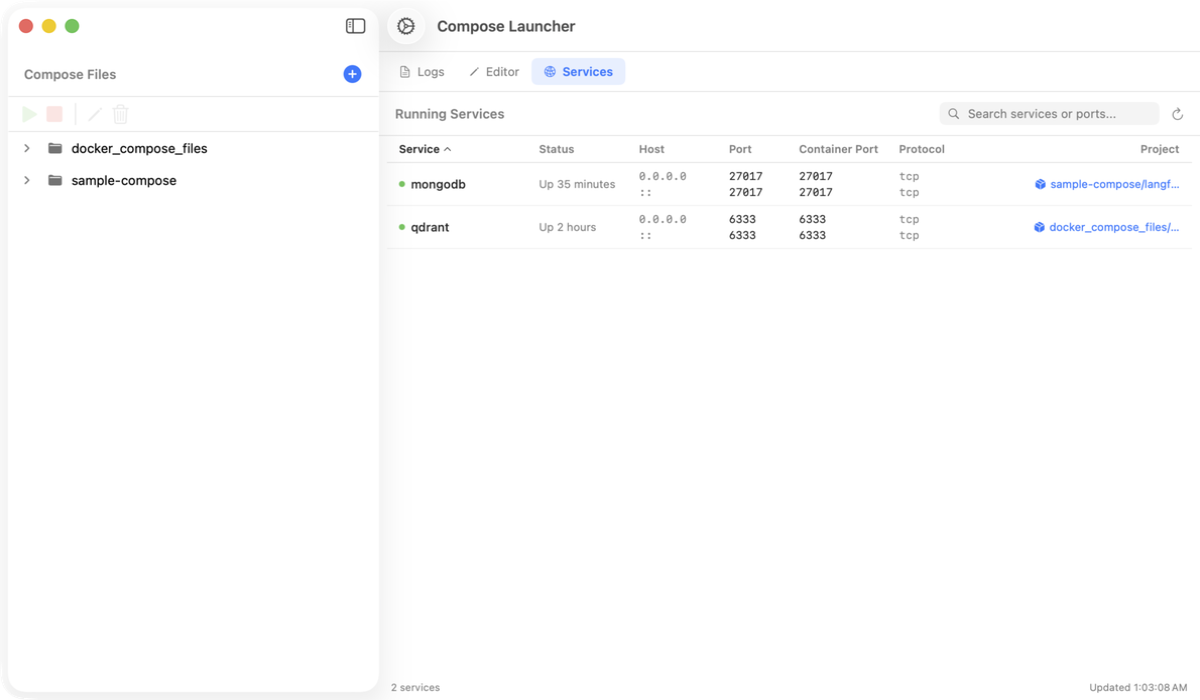
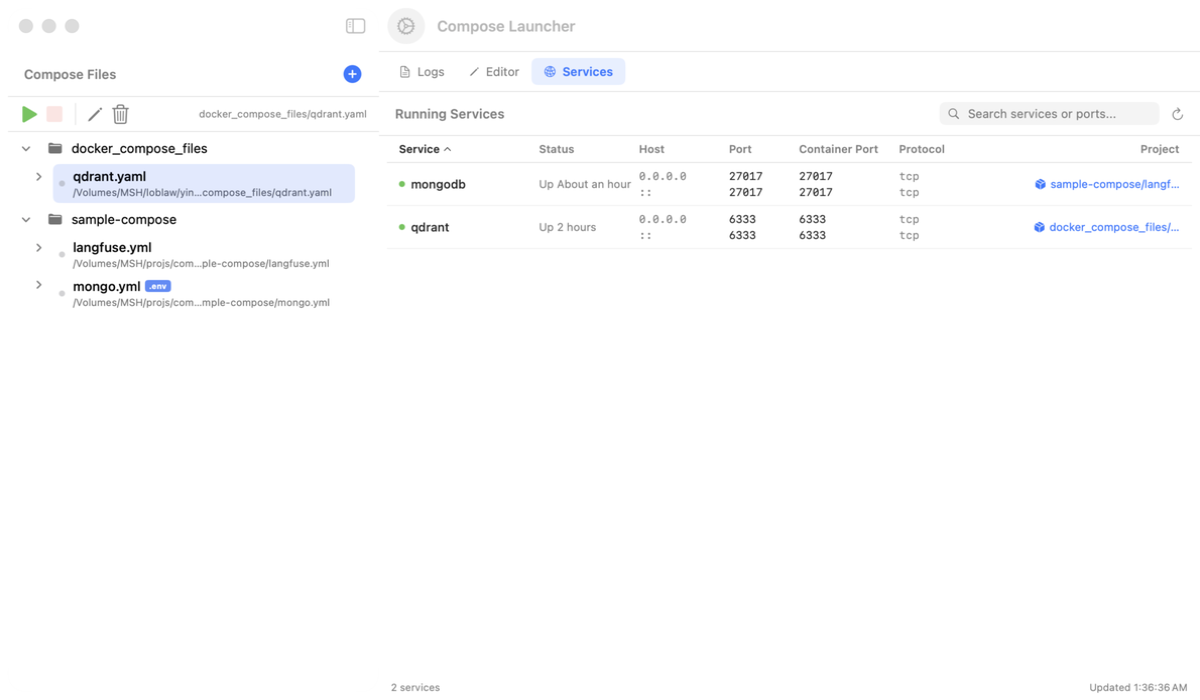
feat: update SidebarView to display custom filenames and enhance screenshot assets

diff --git a/ComposeLauncher/Sources/Core/Views/SidebarView.swift b/ComposeLauncher/Sources/Core/Views/SidebarView.swift
@@ -58,9 +58,16 @@ struct SidebarView: View {
                 isService: false,
                 children: files.map { file in
                     let services = cachedServices[file.id] ?? []
+                    // In tree view, the folder is already shown as the parent node,
+                    // so only show the filename (or custom name) to avoid redundancy
+                    let treeName: String = if let custom = file.customName, !custom.isEmpty {
+                        custom
+                    } else {
+                        URL(fileURLWithPath: file.path).lastPathComponent
+                    }
                     return SidebarItem(
                         id: file.id.uuidString,
-                        name: file.displayName,
+                        name: treeName,
                         icon: "shippingbox.fill",
                         file: file,
                         isService: false,
@@ -414,7 +421,7 @@ struct SidebarRow: View {
             if let file = item.file, !item.isService {
                 VStack(alignment: .leading, spacing: 2) {
                     HStack(spacing: 4) {
-                        Text(file.displayName)
+                        Text(item.name)
                             .font(.system(size: 13, weight: .medium))
                             .foregroundColor(.primary)
                             .lineLimit(1)

diff --git a/AGENTS.md b/AGENTS.md
@@ -37,6 +37,8 @@ This is a native macOS application (Compose Launcher) built with Swift/SwiftUI f
 - Test changes before committing
 - Maintain compatibility with macOS 14.0 or later
 - Support both Intel and Apple Silicon Macs
+- Use `./build-app.sh` to build the release app bundle and launch it
+- Use Peekaboo (via global `~/.mcp.json` or CLI) to capture screenshots of the running app
 
 ## Design Rules
 
